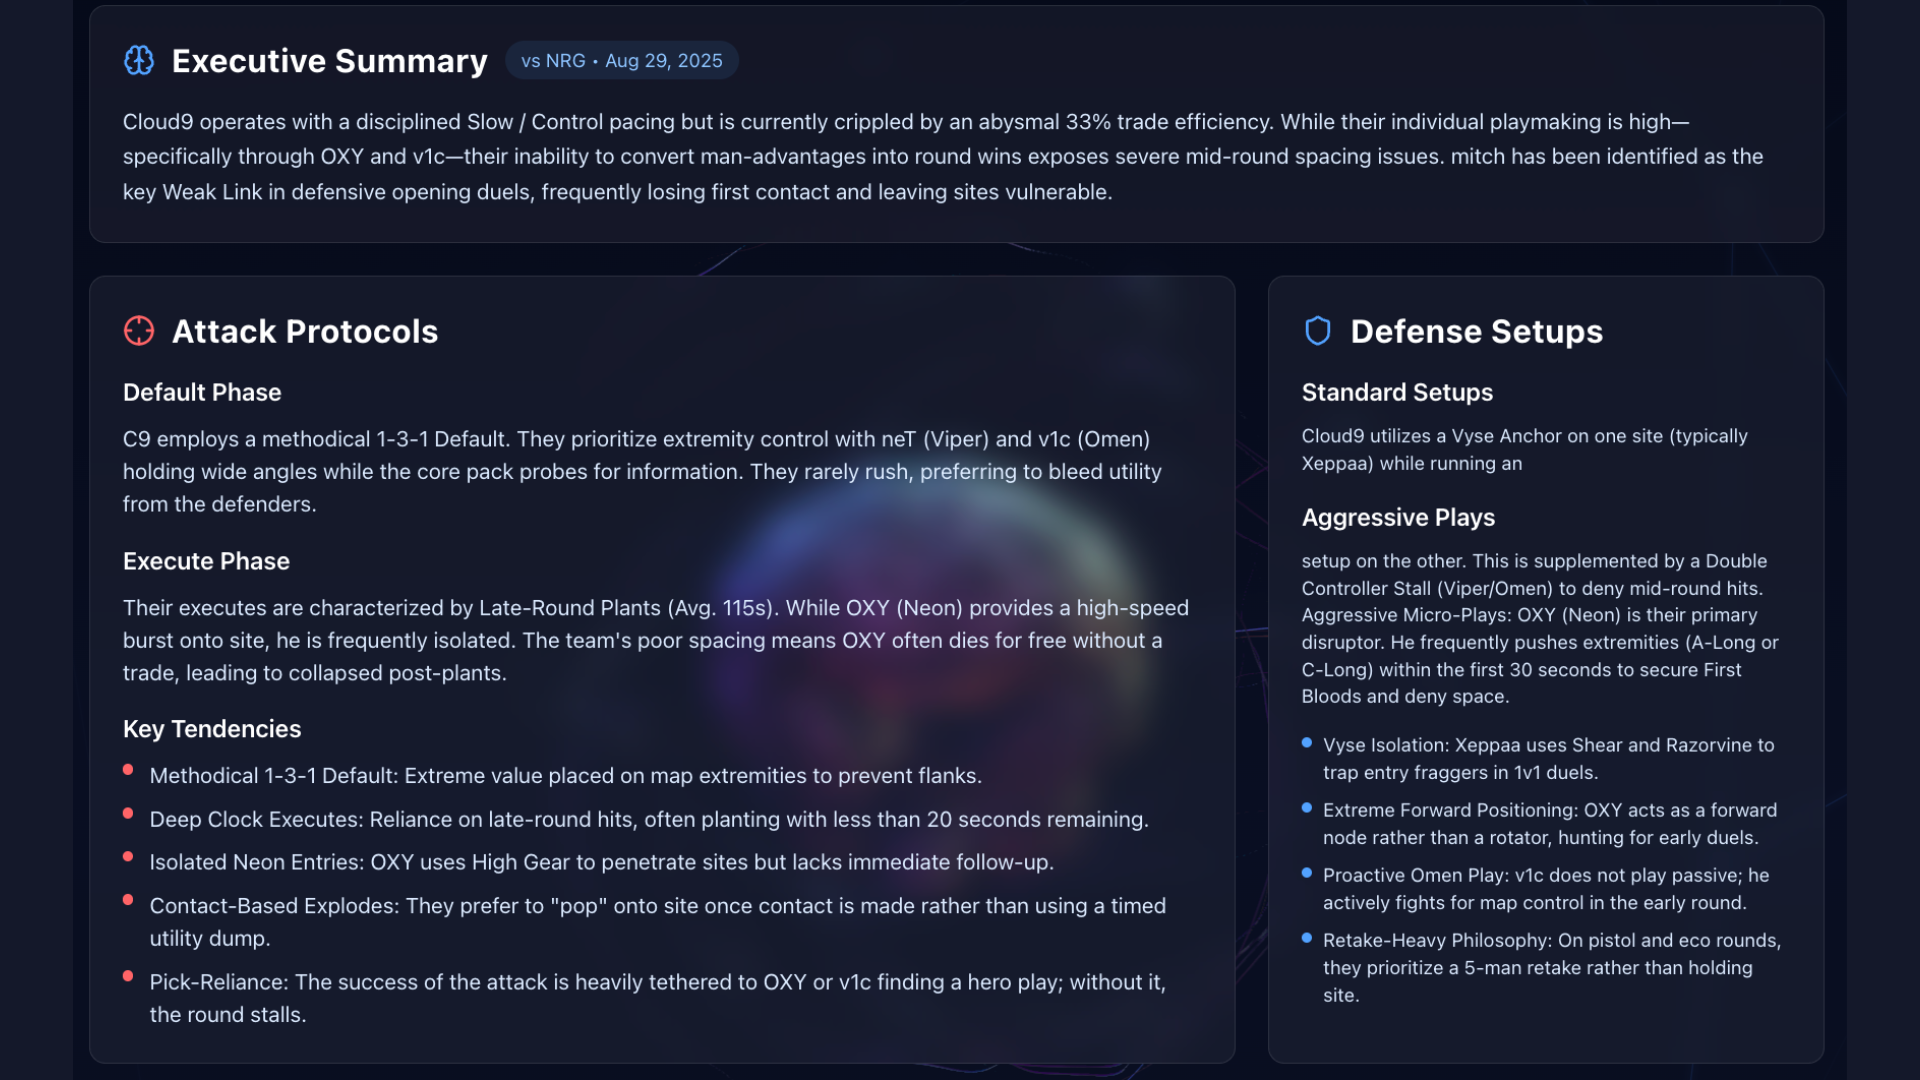
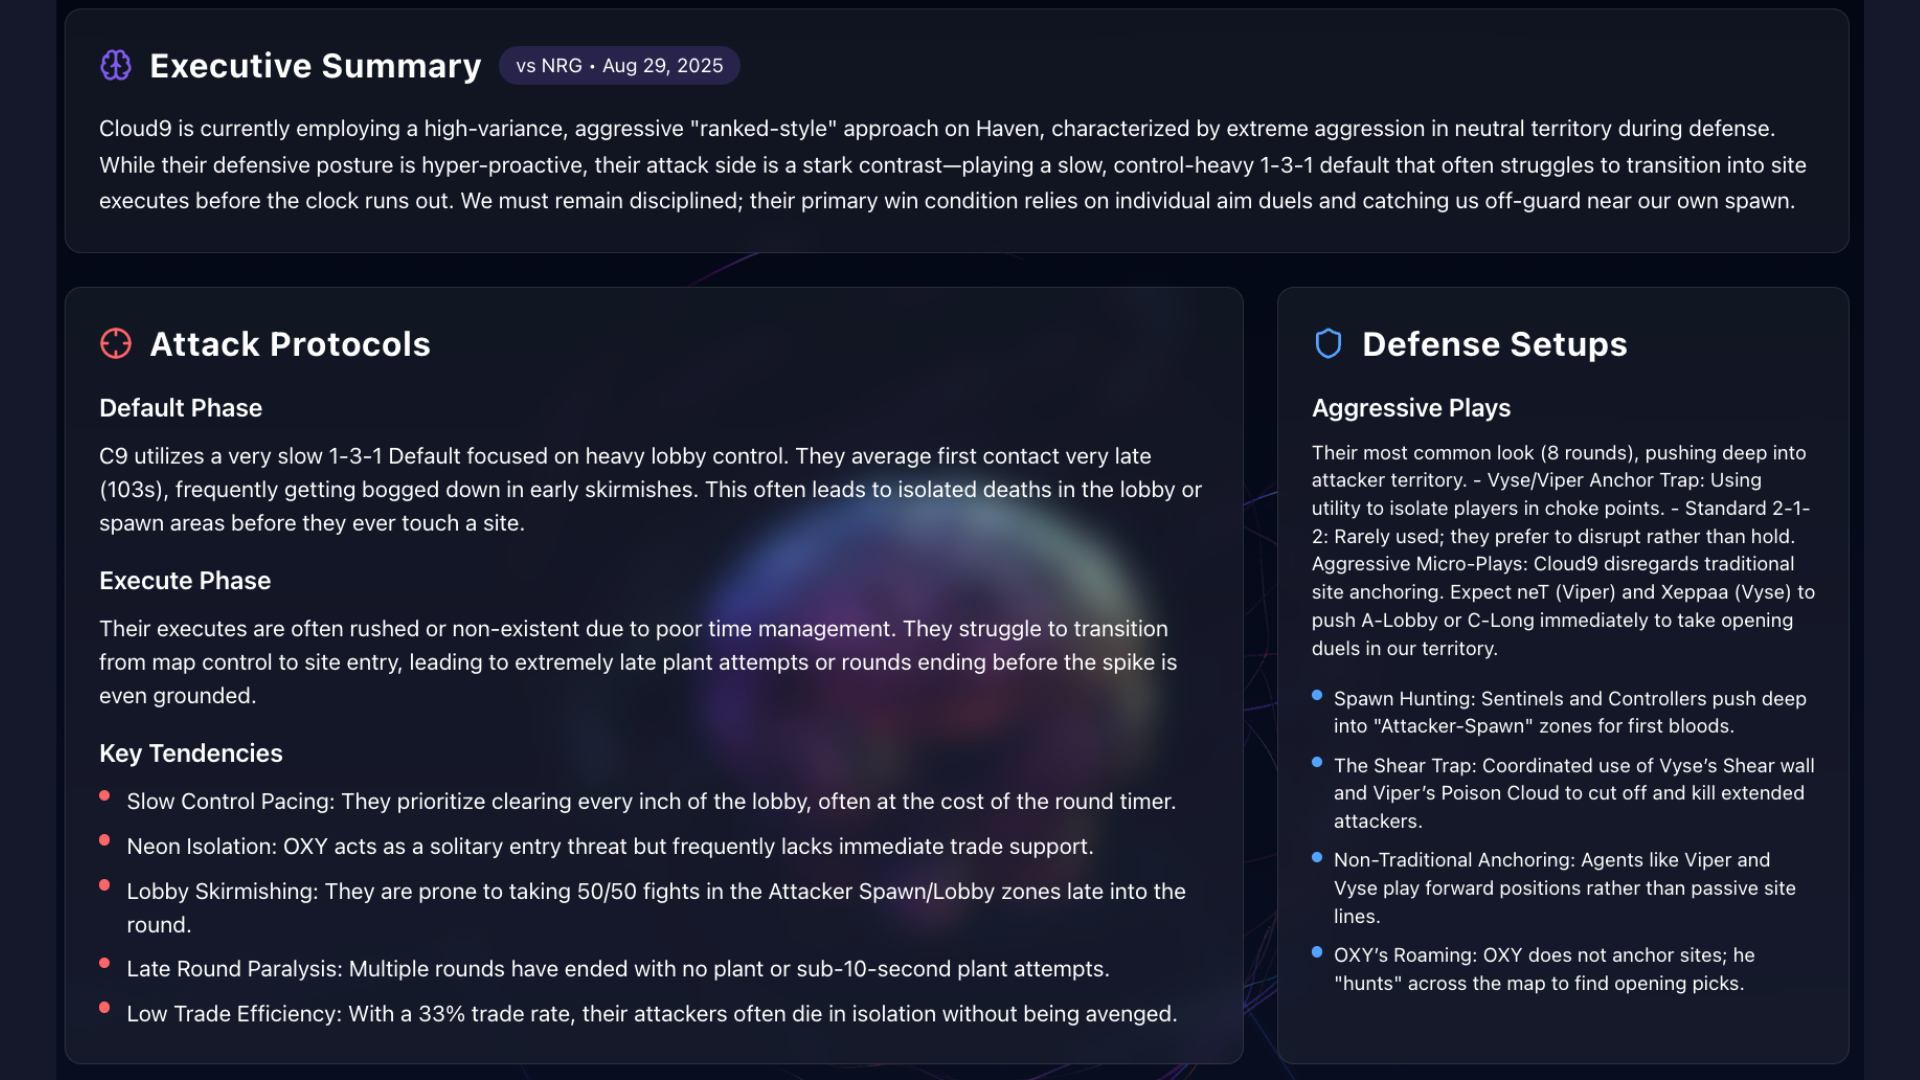
updated images on home page

diff --git a/client/src/components/ai-insight/AIInsightTab.tsx b/client/src/components/ai-insight/AIInsightTab.tsx
@@ -701,7 +701,7 @@ export function AIInsightTab({ teamName, seriesData, seriesIds, reportState, set
                 <h3 className="text-lg font-bold text-white mb-1">
                   Selected Series: vs {selectedSeries.opponent}
                 </h3>
-                <p className="text-blue-300 text-sm">
+                <p className="text-sm" style={{ color: '#fffffe' }}>
                   {selectedSeries.date} • {selectedSeries.score}
                 </p>
               </div>
@@ -712,13 +712,14 @@ export function AIInsightTab({ teamName, seriesData, seriesIds, reportState, set
                 <button
                   onClick={handleGenerateReport}
                   disabled={isGenerating}
-                  className={`
-                    flex items-center gap-2 px-6 py-3 rounded-xl font-semibold transition-all duration-300
-                    ${isGenerating
-                      ? 'bg-blue-900/50 text-white/50 cursor-not-allowed'
-                      : 'bg-blue-900 text-white hover:scale-105'
-                    }
-                  `}
+                  className="flex items-center gap-2 px-6 py-3 rounded-xl font-semibold transition-all duration-300"
+                  style={{
+                    backgroundColor: isGenerating ? 'rgba(127, 90, 240, 0.3)' : '#7f5af0',
+                    color: isGenerating ? 'rgba(255, 255, 255, 0.5)' : '#ffffff',
+                    cursor: isGenerating ? 'not-allowed' : 'pointer'
+                  }}
+                  onMouseEnter={(e) => !isGenerating && (e.currentTarget.style.transform = 'scale(1.05)')}
+                  onMouseLeave={(e) => !isGenerating && (e.currentTarget.style.transform = 'scale(1)')}
                 >
                   {isGenerating ? (
                     <>
@@ -740,8 +741,8 @@ export function AIInsightTab({ teamName, seriesData, seriesIds, reportState, set
               <span className="text-white text-sm">Generate report for:</span>
               {isLoadingMaps ? (
                 <div className="flex items-center gap-2">
-                  <Loader2 className="w-4 h-4 text-blue-900 animate-spin" />
-                  <span className="text-blue-300 text-sm">Loading maps...</span>
+                  <Loader2 className="w-4 h-4 animate-spin" style={{ color: '#7f5af0' }} />
+                  <span className="text-sm" style={{ color: '#fffffe' }}>Loading maps...</span>
                 </div>
               ) : (
                 <div className="flex gap-2 flex-wrap">
@@ -750,14 +751,15 @@ export function AIInsightTab({ teamName, seriesData, seriesIds, reportState, set
                       key={i}
                       onClick={() => setSelectedReportMap(map)}
                       disabled={isGenerating}
-                      className={`
-                        px-3 py-1.5 rounded-lg text-sm font-semibold transition-all duration-300
-                        ${selectedReportMap === map
-                          ? 'bg-blue-900 text-white'
-                          : 'bg-white/5 text-white hover:bg-white/10'
-                        }
-                        ${isGenerating ? 'opacity-50 cursor-not-allowed' : ''}
-                      `}
+                      className="px-3 py-1.5 rounded-lg text-sm font-semibold transition-all duration-300"
+                      style={{
+                        backgroundColor: selectedReportMap === map ? '#7f5af0' : 'rgba(255, 255, 255, 0.05)',
+                        color: '#ffffff',
+                        opacity: isGenerating ? 0.5 : 1,
+                        cursor: isGenerating ? 'not-allowed' : 'pointer'
+                      }}
+                      onMouseEnter={(e) => !isGenerating && selectedReportMap !== map && (e.currentTarget.style.backgroundColor = 'rgba(255, 255, 255, 0.1)')}
+                      onMouseLeave={(e) => !isGenerating && selectedReportMap !== map && (e.currentTarget.style.backgroundColor = 'rgba(255, 255, 255, 0.05)')}
                     >
                       Map {i + 1}: {map}
                     </button>
@@ -789,15 +791,13 @@ export function AIInsightTab({ teamName, seriesData, seriesIds, reportState, set
 
                     return (
                       <div key={stage.key} className="flex flex-col items-center flex-1">
-                        <div className={`
-                          w-8 h-8 rounded-full flex items-center justify-center mb-2 transition-all duration-300
-                          ${isComplete
-                            ? 'bg-green-500 text-white'
-                            : isActive
-                              ? 'bg-blue-900 text-white'
-                              : 'bg-white/10 text-blue-300'
-                          }
-                        `}>
+                        <div
+                          className="w-8 h-8 rounded-full flex items-center justify-center mb-2 transition-all duration-300"
+                          style={{
+                            backgroundColor: isComplete ? '#10b981' : isActive ? '#7f5af0' : 'rgba(255, 255, 255, 0.1)',
+                            color: '#ffffff'
+                          }}
+                        >
                           {isComplete ? (
                             <svg className="w-4 h-4" fill="none" viewBox="0 0 24 24" stroke="currentColor">
                               <path strokeLinecap="round" strokeLinejoin="round" strokeWidth={2} d="M5 13l4 4L19 7" />
@@ -808,10 +808,12 @@ export function AIInsightTab({ teamName, seriesData, seriesIds, reportState, set
                             <span className="text-sm font-bold">{index + 1}</span>
                           )}
                         </div>
-                        <span className={`
-                          text-xs font-medium transition-colors duration-300
-                          ${isActive ? 'text-blue-300' : isComplete ? 'text-green-400' : 'text-blue-400/50'}
-                        `}>
+                        <span
+                          className="text-xs font-medium transition-colors duration-300"
+                          style={{
+                            color: isActive ? '#7f5af0' : isComplete ? '#10b981' : 'rgba(127, 90, 240, 0.5)'
+                          }}
+                        >
                           {stage.label}
                         </span>
                       </div>
@@ -822,7 +824,8 @@ export function AIInsightTab({ teamName, seriesData, seriesIds, reportState, set
                 {/* Progress Bar Track */}
                 <div className="relative h-2 bg-white/10 rounded-full overflow-hidden">
                   <motion.div
-                    className="absolute left-0 top-0 h-full bg-blue-900 rounded-full"
+                    className="absolute left-0 top-0 h-full rounded-full"
+                    style={{ backgroundColor: '#7f5af0' }}
                     initial={{ width: '0%' }}
                     animate={{
                       width: generationStage === 'digest' ? '33%'
@@ -836,7 +839,7 @@ export function AIInsightTab({ teamName, seriesData, seriesIds, reportState, set
                 </div>
 
                 {/* Current Status */}
-                <p className="text-center text-blue-300 text-sm mt-3">
+                <p className="text-center text-sm mt-3" style={{ color: '#fffffe' }}>
                   {generationStatus || 'Initializing...'}
                 </p>
               </motion.div>
@@ -889,13 +892,13 @@ export function AIInsightTab({ teamName, seriesData, seriesIds, reportState, set
               >
                 <GlassBox>
                   <div className="flex items-center gap-3 mb-4">
-                    <Brain className="w-6 h-6 text-blue-400" />
+                    <Brain className="w-6 h-6" style={{ color: '#7f5af0' }} />
                     <h2 className="text-2xl font-bold text-white">Executive Summary</h2>
-                    <span className="text-sm text-blue-300 bg-blue-400/10 px-3 py-1 rounded-full">
+                    <span className="text-sm px-3 py-1 rounded-full" style={{ color: '#fffffe', backgroundColor: 'rgba(127, 90, 240, 0.2)' }}>
                       vs {selectedSeries.opponent} • {selectedSeries.date}
                     </span>
                   </div>
-                  <p className="text-blue-100 leading-relaxed whitespace-pre-wrap">
+                  <p className="leading-relaxed whitespace-pre-wrap" style={{ color: '#fffffe' }}>
                     {reportData.executiveSummary || 'No executive summary available.'}
                   </p>
                 </GlassBox>
@@ -917,13 +920,13 @@ export function AIInsightTab({ teamName, seriesData, seriesIds, reportState, set
                     {reportData.attackProtocols.defaultPhase && (
                       <div>
                         <h3 className="text-lg font-semibold text-white mb-2">Default Phase</h3>
-                        <p className="text-blue-100">{reportData.attackProtocols.defaultPhase}</p>
+                        <p style={{ color: '#fffffe' }}>{reportData.attackProtocols.defaultPhase}</p>
                       </div>
                     )}
                     {reportData.attackProtocols.executePhase && (
                       <div>
                         <h3 className="text-lg font-semibold text-white mb-2">Execute Phase</h3>
-                        <p className="text-blue-100">{reportData.attackProtocols.executePhase}</p>
+                        <p style={{ color: '#fffffe' }}>{reportData.attackProtocols.executePhase}</p>
                       </div>
                     )}
                     {reportData.attackProtocols.tendencies.length > 0 && (
@@ -933,7 +936,7 @@ export function AIInsightTab({ teamName, seriesData, seriesIds, reportState, set
                           {reportData.attackProtocols.tendencies.map((tendency, i) => (
                             <li key={i} className="flex items-start gap-3">
                               <div className="mt-1 w-2 h-2 rounded-full bg-red-400 flex-shrink-0" />
-                              <p className="text-blue-100">{tendency}</p>
+                              <p style={{ color: '#fffffe' }}>{tendency}</p>
                             </li>
                           ))}
                         </ul>
@@ -959,13 +962,13 @@ export function AIInsightTab({ teamName, seriesData, seriesIds, reportState, set
                     {reportData.defenseSetups.standardSetups && (
                       <div>
                         <h3 className="text-lg font-semibold text-white mb-2">Standard Setups</h3>
-                        <p className="text-blue-100 text-sm">{reportData.defenseSetups.standardSetups}</p>
+                        <p className="text-sm" style={{ color: '#fffffe' }}>{reportData.defenseSetups.standardSetups}</p>
                       </div>
                     )}
                     {reportData.defenseSetups.aggressivePlays && (
                       <div>
                         <h3 className="text-lg font-semibold text-white mb-2">Aggressive Plays</h3>
-                        <p className="text-blue-100 text-sm">{reportData.defenseSetups.aggressivePlays}</p>
+                        <p className="text-sm" style={{ color: '#fffffe' }}>{reportData.defenseSetups.aggressivePlays}</p>
                       </div>
                     )}
                     {reportData.defenseSetups.tendencies.length > 0 && (
@@ -973,7 +976,7 @@ export function AIInsightTab({ teamName, seriesData, seriesIds, reportState, set
                         {reportData.defenseSetups.tendencies.slice(0, 4).map((tendency, i) => (
                           <li key={i} className="flex items-start gap-2">
                             <div className="mt-1 w-2 h-2 rounded-full bg-blue-400 flex-shrink-0" />
-                            <p className="text-blue-100 text-sm">{tendency}</p>
+                            <p className="text-sm" style={{ color: '#fffffe' }}>{tendency}</p>
                           </li>
                         ))}
                       </ul>
@@ -994,7 +997,7 @@ export function AIInsightTab({ teamName, seriesData, seriesIds, reportState, set
                     <Crosshair className="w-6 h-6 text-yellow-400" />
                     <h2 className="text-2xl font-bold text-white">Pistol Rounds</h2>
                   </div>
-                  <p className="text-blue-100 whitespace-pre-wrap">
+                  <p className="whitespace-pre-wrap" style={{ color: '#fffffe' }}>
                     {reportData.pistolRounds || 'No pistol round analysis available.'}
                   </p>
                 </GlassBox>
@@ -1018,25 +1021,25 @@ export function AIInsightTab({ teamName, seriesData, seriesIds, reportState, set
                         {reportData.economyIntel.forceBuyTendency && (
                           <div className="flex items-start gap-2">
                             <span className="text-blue-300 text-sm font-semibold min-w-[120px]">Force Buy:</span>
-                            <span className="text-blue-100 text-sm">{reportData.economyIntel.forceBuyTendency}</span>
+                            <span className="text-sm" style={{ color: '#fffffe' }}>{reportData.economyIntel.forceBuyTendency}</span>
                           </div>
                         )}
                         {reportData.economyIntel.ecoRoundWinRate && (
                           <div className="flex items-start gap-2">
                             <span className="text-blue-300 text-sm font-semibold min-w-[120px]">Eco Win Rate:</span>
-                            <span className="text-blue-100 text-sm">{reportData.economyIntel.ecoRoundWinRate}</span>
+                            <span className="text-sm" style={{ color: '#fffffe' }}>{reportData.economyIntel.ecoRoundWinRate}</span>
                           </div>
                         )}
                         {reportData.economyIntel.operatorInvestment && (
                           <div className="flex items-start gap-2">
                             <span className="text-blue-300 text-sm font-semibold min-w-[120px]">Op Investment:</span>
-                            <span className="text-blue-100 text-sm">{reportData.economyIntel.operatorInvestment}</span>
+                            <span className="text-sm" style={{ color: '#fffffe' }}>{reportData.economyIntel.operatorInvestment}</span>
                           </div>
                         )}
                         {reportData.economyIntel.bonusRoundStyle && (
                           <div className="flex items-start gap-2">
                             <span className="text-blue-300 text-sm font-semibold min-w-[120px]">Bonus Style:</span>
-                            <span className="text-blue-100 text-sm">{reportData.economyIntel.bonusRoundStyle}</span>
+                            <span className="text-sm" style={{ color: '#fffffe' }}>{reportData.economyIntel.bonusRoundStyle}</span>
                           </div>
                         )}
                       </div>
@@ -1044,12 +1047,12 @@ export function AIInsightTab({ teamName, seriesData, seriesIds, reportState, set
                       {reportData.economyIntel.economyExploit && (
                         <div className="p-4 rounded-lg bg-green-400/10 border border-green-400/20 flex flex-col justify-center">
                           <span className="text-green-400 text-sm font-semibold block mb-2">💡 Exploit Strategy:</span>
-                          <p className="text-blue-100 text-sm italic">"{reportData.economyIntel.economyExploit}"</p>
+                          <p className="text-sm italic" style={{ color: '#fffffe' }}>"{reportData.economyIntel.economyExploit}"</p>
                         </div>
                       )}
                     </div>
                   ) : (
-                    <p className="text-blue-200">No economy intel available.</p>
+                    <p style={{ color: '#fffffe' }}>No economy intel available.</p>
                   )}
                 </GlassBox>
               </motion.div>
@@ -1094,7 +1097,7 @@ export function AIInsightTab({ teamName, seriesData, seriesIds, reportState, set
                                     }}
                                   />
                                 </td>
-                                <td className="py-2 px-3 text-blue-100">{player.insight}</td>
+                                <td className="py-2 px-3" style={{ color: '#fffffe' }}>{player.insight}</td>
                               </tr>
                             );
                           })}
@@ -1132,7 +1135,7 @@ export function AIInsightTab({ teamName, seriesData, seriesIds, reportState, set
                             </span>
                             <span className="text-white font-semibold">{strat.name}</span>
                           </div>
-                          <p className="text-blue-100 text-sm">{strat.advice}</p>
+                          <p className="text-sm" style={{ color: '#fffffe' }}>{strat.advice}</p>
                         </div>
                       ))}
                     </div>
@@ -1154,7 +1157,7 @@ export function AIInsightTab({ teamName, seriesData, seriesIds, reportState, set
                     <MessageSquare className="w-6 h-6 text-cyan-400" />
                     <h2 className="text-2xl font-bold text-white">Coach's Final Note</h2>
                   </div>
-                  <p className="text-blue-100 leading-relaxed whitespace-pre-wrap">
+                  <p className="leading-relaxed whitespace-pre-wrap" style={{ color: '#fffffe' }}>
                     {reportData.coachNote || 'No coach notes available.'}
                   </p>
                 </GlassBox>

diff --git a/client/src/components/ui/FeaturedCards.tsx b/client/src/components/ui/FeaturedCards.tsx
@@ -4,7 +4,6 @@ import { useState, useEffect } from "react";
 import matchHistoryImg from '../../assets/features_images/match_history.png';
 import analytics1Img from '../../assets/features_images/analytics_1.png';
 import analytics2Img from '../../assets/features_images/analytics_2.png';
-import tacticalReportImg from '../../assets/features_images/tactical_report.png';
 import ai1Img from '../../assets/features_images/ai_1.png';
 import ai2Img from '../../assets/features_images/ai_2.png';
 import ai3Img from '../../assets/features_images/ai_3.png';
@@ -15,7 +14,6 @@ const FeaturedCards = () => {
         matchHistoryImg,    // 0 - Match History
         analytics1Img,      // 1 - Analytics
         analytics2Img,      // 2 - Analytics
-        tacticalReportImg,  // 3 - Tactical Report
         ai1Img,            // 4 - AI Insights
         ai2Img,            // 5 - AI Insights
         ai3Img,            // 6 - AI Insights
